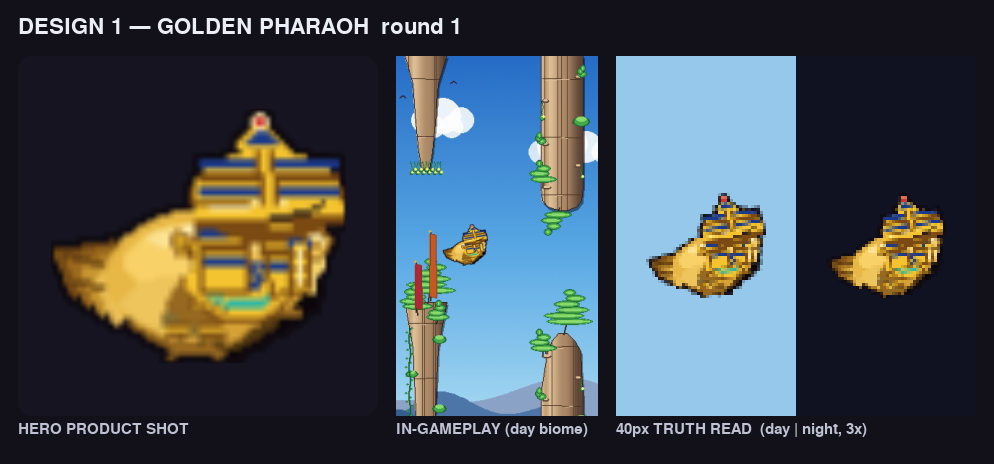
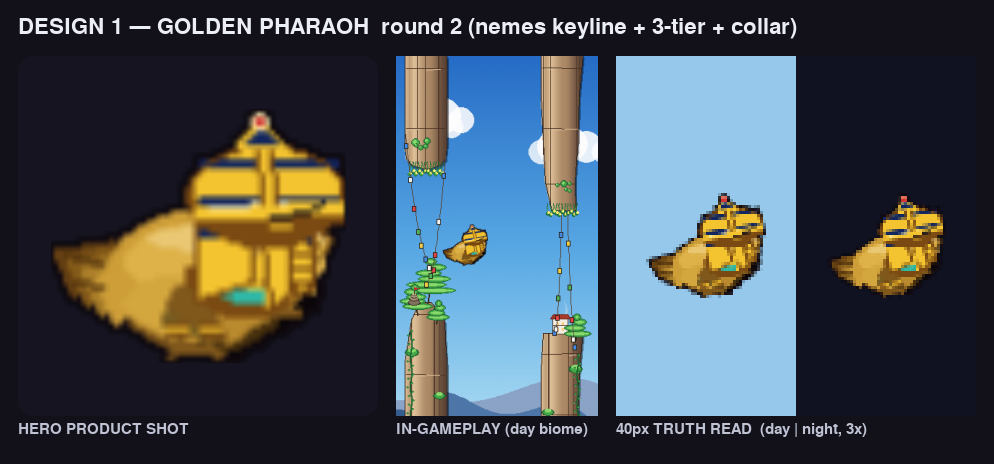
Pharaoh design 1 R2: keylined nemes + 3-tier value + hero collar
Make the GOLDEN PHARAOH read as a pharaoh at 40px: wrap the nemes in a
deep-bronze keyline and splay the lappets into the classic flaring
trapezoid with four fat lapis bands; darken the body one step toward
bronze so bright gold reads as regalia only; drop the crook & flail
(mud at 40px) and promote the usekh collar to a bold 3-band arc with a
turquoise focal mid-band.

Claude-Session: https://claude.ai/code/session_01HafGQfRZVDiGkQqpJPr5Cm

diff --git a/tools/pharaoh_candidates/design_1.py b/tools/pharaoh_candidates/design_1.py
@@ -1,11 +1,12 @@
 """DESIGN 1 — GOLDEN PHARAOH (Tutankhamun) — scratch costume exploration.
 
-Full Egyptian king: gold body recolor (eternal flesh of the gods), a flaring
-lapis+gold NEMES headdress with a rearing gold URAEUS cobra, a short braided
-false beard, a broad concentric USEKH collar across the breast, a crook & flail
-slung diagonally inside the wing, and gold anklets. The hero read is the wide
-nemes silhouette + all-gold body + broad collar; lapis stripes and bronze
-shadow carry the value structure on a night sky where gold alone would wash out.
+Egyptian king on a 3-tier value hierarchy — BRONZE body / GOLD regalia / LAPIS
++ TURQUOISE accents — so the king-stuff pops off the flesh at 40px instead of
+washing into gold-on-gold. A keylined flaring lapis+gold NEMES headdress (the
+#1 read) with a rearing gold URAEUS cobra, a bold 3-band USEKH collar promoted
+to the 2nd hero element (turquoise mid-band is the single non-gold focal that
+survives the downscale), a fattened keylined false beard, and gold anklets.
+The crook & flail were dropped — they were mud at 40px.
 
 Exploration only — NOT registered in store_skins.BUILDERS.
 Render: tools/pharaoh_candidates/render_design_1.py.
@@ -20,35 +21,36 @@ from game import store_skins
 from game.store_skins import HX, HY, CROWN_Y, _poly
 from game.dollar_parrot_ghost import _pal, _build_parrot_with_palette
 
-# ── gold body palette (eternal-flesh gold so the whole bird glows) ───────────
-# Gold needs a real value range or it flattens to a coin: bronze in the shadows,
-# warm gold mid, pale glint highlight. Lapis is reserved for the nemes so the
-# body stays unambiguously golden.
+# ── bronze body palette (darker eternal-flesh so regalia can out-pop it) ──────
+# The body is pulled one full step down toward bronze on purpose: a 3-tier value
+# hierarchy needs the flesh to sit BELOW the regalia, or the gold nemes/collar
+# wash into a gold-on-gold blob at 40px. Bright gold + glint are reserved for
+# the headdress brow-band, collar top row and uraeus only.
 _GP_BODY = _pal(
-    tail=[(122, 78, 22), (158, 108, 30), (200, 150, 48), (236, 192, 86)],
-    tail_line=(92, 58, 16),
-    body_shadow=(150, 104, 32),
-    body_main=(232, 184, 70),
-    body_chest=(248, 210, 104),
-    body_belly=(238, 196, 92),
-    sheen=(255, 246, 196, 120),
-    wing_main=(214, 162, 54),
-    wing_dark=(150, 104, 32),
-    wing_tip=(252, 222, 120),
-    wing_secondary=(244, 200, 92),
-    wing_highlight=(255, 246, 196),
-    head_shadow=(168, 118, 38),
-    head_main=(240, 196, 84),
-    head_cheek=(250, 214, 112),
-    head_crown=(248, 208, 102),
-    lens_frame=(150, 104, 32),
-    lens_body=(60, 40, 14),
+    tail=[(104, 66, 18), (134, 92, 26), (172, 128, 42), (206, 158, 56)],
+    tail_line=(80, 50, 14),
+    body_shadow=(128, 88, 28),
+    body_main=(206, 158, 56),
+    body_chest=(222, 178, 72),
+    body_belly=(212, 166, 62),
+    sheen=(248, 226, 170, 110),
+    wing_main=(186, 138, 46),
+    wing_dark=(128, 88, 28),
+    wing_tip=(222, 180, 78),
+    wing_secondary=(210, 162, 60),
+    wing_highlight=(238, 206, 132),
+    head_shadow=(144, 100, 32),
+    head_main=(212, 166, 62),
+    head_cheek=(224, 182, 78),
+    head_crown=(220, 174, 70),
+    lens_frame=(128, 88, 28),
+    lens_body=(54, 36, 12),
     lens_tint=None,
     lens_glint=None,
-    beak_main=(238, 196, 88),
-    beak_dark=(150, 104, 32),
-    beak_gloss=(255, 246, 196),
-    foot=(150, 104, 32),
+    beak_main=(210, 164, 60),
+    beak_dark=(128, 88, 28),
+    beak_gloss=(238, 206, 132),
+    foot=(128, 88, 28),
 )
 
 
@@ -57,96 +59,75 @@ def _gp_base(angle_deg):
 
 
 # ── costume colours ──────────────────────────────────────────────────────────
-_GP_GOLD   = (244, 196, 48)     # #F4C430
-_GP_GOLD_D = (122, 74, 18)      # #7A4A12 deep bronze shadow
-_GP_GLINT  = (255, 242, 176)    # #FFF2B0
-_GP_LAPIS  = (27, 58, 140)      # #1B3A8C
-_GP_LAPIS_D = (18, 38, 96)
-_GP_TURQ   = (47, 184, 166)     # #2FB8A6
+_GP_GOLD   = (244, 196, 48)     # #F4C430 bright regalia gold (reserved)
+_GP_GOLD_D = (122, 74, 18)      # #7A4A12 deep bronze shadow / keyline
+_GP_KEY    = (122, 74, 18)      # #7A4A12 1px keyline against the bronze body
+_GP_GLINT  = (255, 242, 176)    # #FFF2B0 (reserved)
+_GP_LAPIS  = (18, 38, 95)       # #12265F stronger lapis so bands read fat
+_GP_LAPIS_D = (12, 26, 70)
+_GP_TURQ   = (47, 184, 166)     # #2FB8A6 single non-gold focal that survives 40px
 _GP_KOHL   = (24, 22, 30)
 
 
 def _paint(surf, _a):
     cy = CROWN_Y
 
-    # ── crook & flail, slung diagonally INSIDE the wing ──────────────────────
-    # Painted first so the body covers the shaft mid-section; only the gold
-    # heads peek inside the silhouette. Both staffs are tucked above the feet
-    # line so nothing dangles past the bird's true footprint.
-    # Crook (shepherd's hook) — leans one way.
-    cr_top = (HX - 16, HY + 4)
-    cr_bot = (HX - 9, HY + 18)
-    pygame.draw.line(surf, _GP_GOLD_D, cr_top, cr_bot, 4)
-    pygame.draw.line(surf, _GP_GOLD, cr_top, cr_bot, 2)
-    pygame.draw.lines(surf, _GP_GOLD_D, False,
-                      [(HX - 16, HY + 4), (HX - 19, HY + 2), (HX - 18, HY + 6)], 3)
-    pygame.draw.lines(surf, _GP_GOLD, False,
-                      [(HX - 16, HY + 4), (HX - 19, HY + 2), (HX - 18, HY + 6)], 1)
-    # Lapis binding rings down the crook shaft so it reads as a royal staff.
-    pygame.draw.circle(surf, _GP_LAPIS, (HX - 14, HY + 8), 1)
-    pygame.draw.circle(surf, _GP_LAPIS, (HX - 12, HY + 13), 1)
-
-    # Flail — crossed the other way, a short handle with a beaded tip.
-    fl_top = (HX - 8, HY + 3)
-    fl_bot = (HX - 15, HY + 17)
-    pygame.draw.line(surf, _GP_GOLD_D, fl_top, fl_bot, 4)
-    pygame.draw.line(surf, _GP_GOLD, fl_top, fl_bot, 2)
-    # Three beaded strands fanning off the flail head.
-    for dx in (-2, 0, 2):
-        pygame.draw.line(surf, _GP_GOLD_D, fl_top, (fl_top[0] + dx, fl_top[1] - 4), 2)
-        pygame.draw.circle(surf, _GP_GOLD, (fl_top[0] + dx, fl_top[1] - 4), 1)
-    pygame.draw.circle(surf, _GP_GLINT, (fl_top[0], fl_top[1] - 4), 1)
-
-    # ── broad USEKH collar — concentric bead rows arcing across the breast ────
-    # Sits INSIDE the body footprint (top ~HY+6, bottom ~HY+18). Alternating
-    # gold + turquoise arcs read as a beaded gorget at 40px; the bronze base
-    # arc carries the shape on night where gold alone would vanish.
-    col_cx, col_cy = HX - 5, HY + 6
-    for r, col in ((13, _GP_GOLD_D), (12, _GP_GOLD), (10, _GP_TURQ),
-                   (8, _GP_GOLD), (6, _GP_LAPIS)):
+    # ── broad USEKH collar — promoted to the 2nd hero element ─────────────────
+    # A bold 3-band arc below the chin: bronze base / turquoise mid / gold top,
+    # ~3px each. The turquoise is the deliberate single non-gold focal that
+    # survives the downscale, giving the bronze body a distinct collar shape
+    # instead of more gold-on-gold mush.
+    col_cx, col_cy = HX - 4, HY + 4
+    for r, col, w in ((14, _GP_KEY, 4), (13, _GP_GOLD_D, 3),
+                      (11, _GP_TURQ, 3), (8, _GP_GOLD, 3)):
         pygame.draw.arc(surf, col, (col_cx - r, col_cy - r + 2, r * 2, r * 2),
-                        3.55, 6.0, 2)
-    # Bead dots punctuating the outermost gold row for a jewelled read.
-    for k in range(5):
-        a = 3.7 + k * 0.42
-        bx = col_cx + 12 * math.cos(a)
-        by = col_cy + 12 * math.sin(a) + 2
-        pygame.draw.circle(surf, _GP_GLINT, (int(bx), int(by)), 1)
+                        3.55, 6.0, w)
+    # A few gold beads punctuating the top row for a jewelled read.
+    for k in range(4):
+        a = 3.75 + k * 0.52
+        bx = col_cx + 8 * math.cos(a)
+        by = col_cy + 8 * math.sin(a) + 2
+        pygame.draw.circle(surf, _GP_GOLD, (int(bx), int(by)), 1)
 
-    # ── striped flaring NEMES headdress ──────────────────────────────────────
-    # Wide shoulder lappets sweeping down past the cheeks are the hero
-    # silhouette. Lapis+gold horizontal stripes; bronze edge keeps the gold
-    # cloth off a bright sky.
-    # Near (front) lappet — flares down the cheek, framing the face.
-    near_lappet = [(HX - 2, cy + 4), (HX + 8, cy + 5), (HX + 9, HY + 13),
-                   (HX + 1, HY + 15)]
-    _poly(surf, _GP_GOLD, near_lappet)
-    for i in range(5):
-        yy = cy + 6 + i * 3
-        col = _GP_LAPIS if i % 2 == 0 else _GP_GOLD_D
-        pygame.draw.line(surf, col, (HX - 1, yy), (HX + 9, yy + 1), 2)
-    pygame.draw.polygon(surf, _GP_GOLD_D, near_lappet, 1)
+    # ── striped flaring NEMES headdress — the #1 hero read ────────────────────
+    # The whole cloth (cap + both lappets) is wrapped in a 1px deep-bronze
+    # keyline so its edge survives the downscale against the gold body, instead
+    # of melting into a back-lump. Lappets splay into the classic flaring
+    # trapezoid flanking the cheeks. Four FAT 2px bands of strong lapis between
+    # the gold read as ~3-4 thick stripes, not thin downscale noise.
 
-    # Far (back) lappet — the flare on the far side that widens the silhouette.
-    far_lappet = [(HX - 15, cy + 3), (HX - 5, cy + 3), (HX - 4, HY + 14),
-                  (HX - 14, HY + 14)]
+    # Far (back) lappet — flared low and wide to flank the far cheek.
+    far_lappet = [(HX - 15, cy + 3), (HX - 4, cy + 4), (HX - 3, HY + 12),
+                  (HX - 15, HY + 16)]
     _poly(surf, _GP_GOLD, far_lappet)
-    for i in range(5):
+    for i in range(4):
         yy = cy + 5 + i * 3
-        col = _GP_LAPIS if i % 2 == 0 else _GP_GOLD_D
+        col = _GP_LAPIS if i % 2 == 0 else _GP_GOLD
         pygame.draw.line(surf, col, (HX - 14, yy), (HX - 4, yy), 2)
-    pygame.draw.polygon(surf, _GP_GOLD_D, far_lappet, 1)
+    pygame.draw.polygon(surf, _GP_KEY, far_lappet, 1)
+
+    # Near (front) lappet — flares down and out to the lower-left, framing the
+    # face in the trapezoid that says "pharaoh" at a glance.
+    near_lappet = [(HX - 2, cy + 4), (HX + 9, cy + 5), (HX + 10, HY + 10),
+                   (HX + 1, HY + 18)]
+    _poly(surf, _GP_GOLD, near_lappet)
+    for i in range(4):
+        yy = cy + 6 + i * 3
+        col = _GP_LAPIS if i % 2 == 0 else _GP_GOLD
+        pygame.draw.line(surf, col, (HX - 1, yy), (HX + 9, yy + 1), 2)
+    pygame.draw.polygon(surf, _GP_KEY, near_lappet, 1)
 
     # Domed headcloth cap over the crown, flaring wider than the bare head.
-    pygame.draw.ellipse(surf, _GP_GOLD_D, (HX - 16, cy - 6, 33, 20))
+    pygame.draw.ellipse(surf, _GP_KEY, (HX - 17, cy - 7, 35, 22))
     pygame.draw.ellipse(surf, _GP_GOLD, (HX - 15, cy - 6, 31, 17))
-    # Horizontal lapis+gold stripes banding the cap (the textbook nemes read).
-    for i in range(5):
-        yy = cy - 4 + i * 3
-        col = _GP_LAPIS if i % 2 == 0 else _GP_GOLD_D
+    # Four FAT lapis+gold bands across the cap (the textbook nemes read).
+    for i in range(4):
+        yy = cy - 4 + i * 4
+        col = _GP_LAPIS if i % 2 == 0 else _GP_GOLD
         pygame.draw.line(surf, col, (HX - 14, yy), (HX + 15, yy), 2)
-    # Fat gold brow-band capping the front.
-    pygame.draw.line(surf, _GP_GOLD_D, (HX - 15, cy + 8), (HX + 16, cy + 7), 5)
+    pygame.draw.ellipse(surf, _GP_KEY, (HX - 17, cy - 7, 35, 22), 1)
+    # Bright gold brow-band capping the front — reserved-gold focal.
+    pygame.draw.line(surf, _GP_KEY, (HX - 15, cy + 8), (HX + 16, cy + 7), 5)
     pygame.draw.line(surf, _GP_GOLD, (HX - 15, cy + 7), (HX + 16, cy + 6), 3)
     pygame.draw.line(surf, _GP_GLINT, (HX - 12, cy + 6), (HX + 4, cy + 5), 1)
 
@@ -167,15 +148,14 @@ def _paint(surf, _a):
     pygame.draw.line(surf, _GP_KOHL, (HX + 9, HY - 3), (HX + 12, HY - 5), 1)  # liner flick
 
     # ── short braided FALSE BEARD straight down from the chin ─────────────────
-    # Within the head/upper-body footprint — a stubby plaited post, never below
-    # the collar.
+    # Fattened to ~4px with a hard bronze keyline so the plaited post survives
+    # the downscale; within the head footprint, never below the collar.
     by0 = HY + 4
-    pygame.draw.rect(surf, _GP_GOLD_D, (HX + 5, by0, 5, 11), border_radius=2)
-    pygame.draw.rect(surf, _GP_GOLD, (HX + 6, by0, 3, 10), border_radius=2)
+    pygame.draw.rect(surf, _GP_KEY, (HX + 5, by0, 6, 11), border_radius=2)
+    pygame.draw.rect(surf, _GP_GOLD, (HX + 6, by0, 4, 10), border_radius=2)
     for j in range(3):
         yy = by0 + 2 + j * 3
         pygame.draw.line(surf, _GP_GOLD_D, (HX + 6, yy), (HX + 9, yy), 1)  # braid seams
-    pygame.draw.line(surf, _GP_GLINT, (HX + 7, by0 + 1), (HX + 7, by0 + 8), 1)
 
     # ── gold anklets at the feet line ────────────────────────────────────────
     for fx in (HX - 21, HX - 14):

diff --git a/tools/pharaoh_candidates/render_design_1.py b/tools/pharaoh_candidates/render_design_1.py
@@ -13,7 +13,7 @@ from tools import ninja_render
 from tools.pharaoh_candidates.design_1 import build
 
 OUT = "docs/store_redesign/costume/pharaoh/design_1/round_1.png"
-TITLE = "DESIGN 1 — GOLDEN PHARAOH  round 1"
+TITLE = "DESIGN 1 — GOLDEN PHARAOH  round 2 (nemes keyline + 3-tier + collar)"
 
 
 def _label(surf, text, x, y, size=18, color=(236, 238, 246)):
